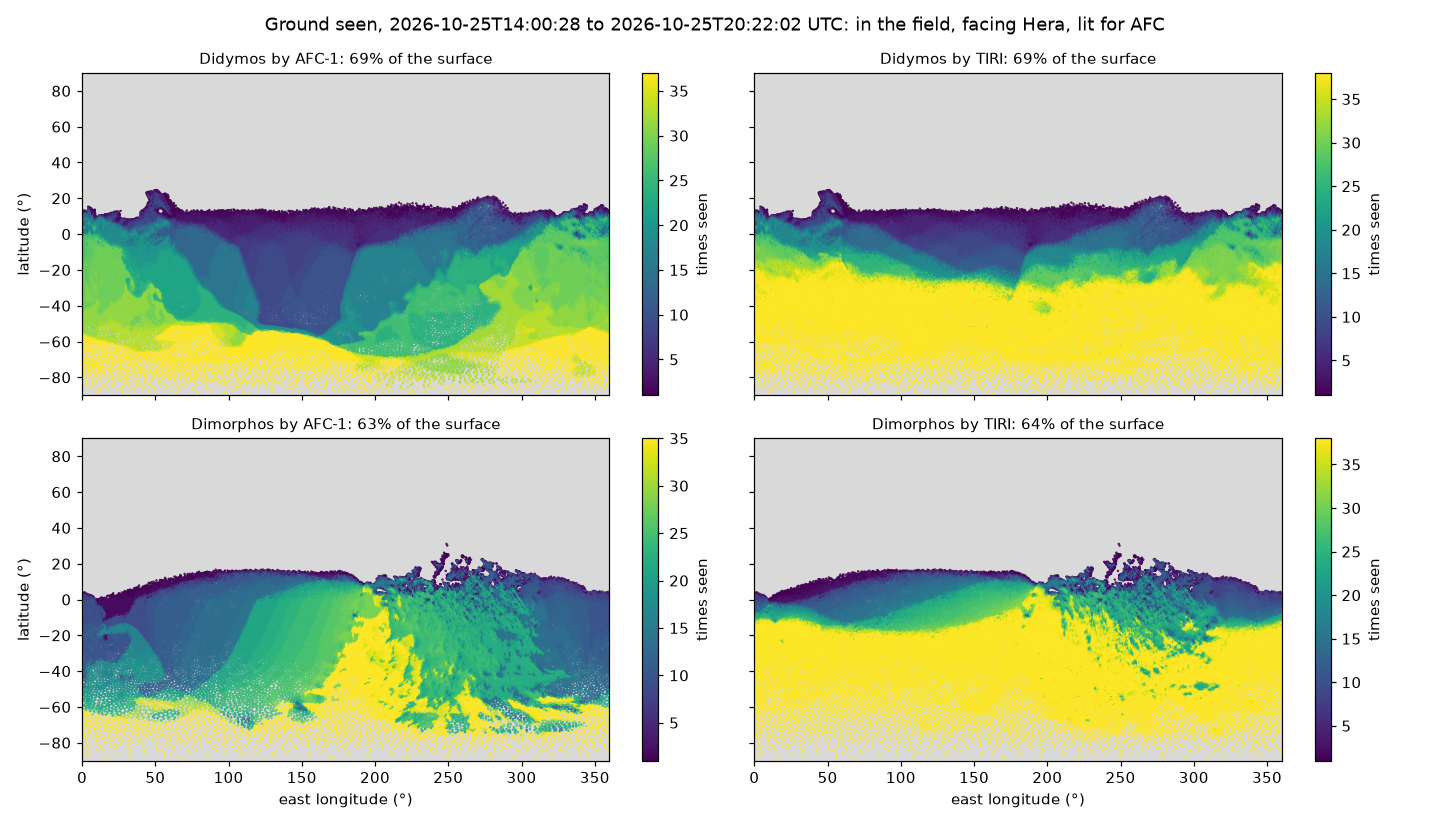
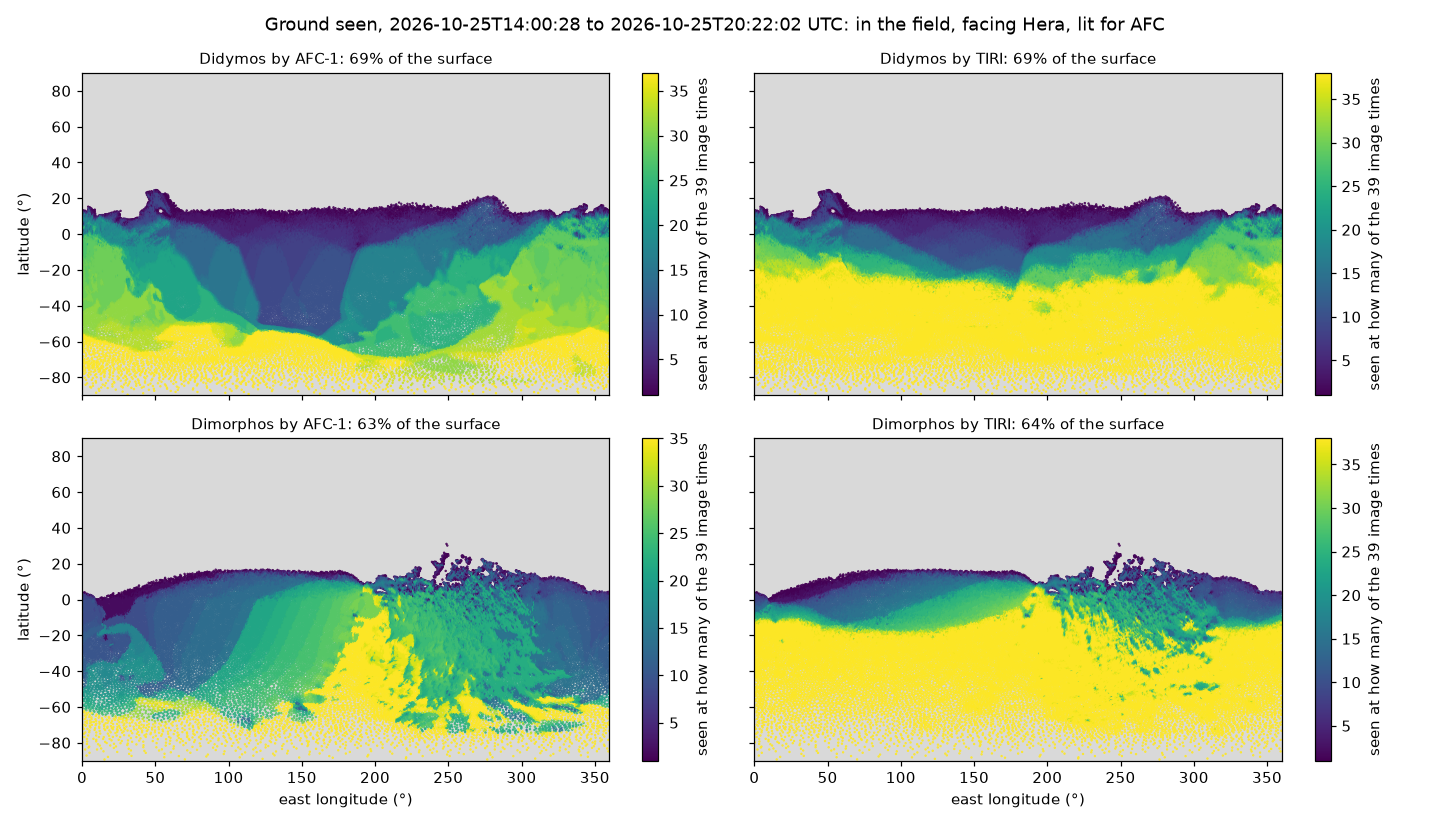
coverage.py: the colour bar says what it counts, how many of the image times a facet was seen at. notes: the old Hera kernel set deleted at the user's go

diff --git a/examples/hera_didymos/coverage.py b/examples/hera_didymos/coverage.py
@@ -150,7 +150,7 @@ for i, instr in enumerate(INSTRUMENTS):
         a.set_facecolor("0.85")
         a.set_title(f"{name.capitalize()} by {instr[5:]}: {100 * area[count > 0].sum() / area.sum():.0f}% of the surface",
                     fontsize=10)
-        fig.colorbar(art, ax=a, label="times seen")
+        fig.colorbar(art, ax=a, label=f"seen at how many of the {len(times)} image times")
 for a in ax[:, 0]:
     a.set_ylabel("latitude (°)")
 for a in ax[1]:

diff --git a/notes/2026-10-27_hera_arrival/README.md b/notes/2026-10-27_hera_arrival/README.md
@@ -34,7 +34,7 @@ No file in the old set was the user's own. The only local change was each of
 the 8 meta-kernels' `PATH_VALUES` set to `/Users/gregoireh/data/spice/hera/kernels`,
 and that is made again in the new ones. The old set was moved, not deleted,
 to `~/data/spice/hera_v182_20261020` (325 files, 1.9 GB). No process had it
-open.
+open. The user then had it deleted, the same day.
 
 The new trajectory moves Hera against Didymos, whose ephemeris
 (`didymos_flp_000007`) did not change. Seen from Hera (`hera_plan.tm`):
@@ -157,7 +157,8 @@ At the 39 times:
 | Didymos | 69 % of the surface | 69 % |
 | Dimorphos | 63 % | 64 % |
 
-That is everything south of about +15°. The run takes 5 s.
+That is everything south of about +15°. A facet's colour is how many of the
+39 image times it was seen at: a count, not a duration. The run takes 5 s.
 
 Tables: `geometry.csv`, `tiri.csv`.
 
